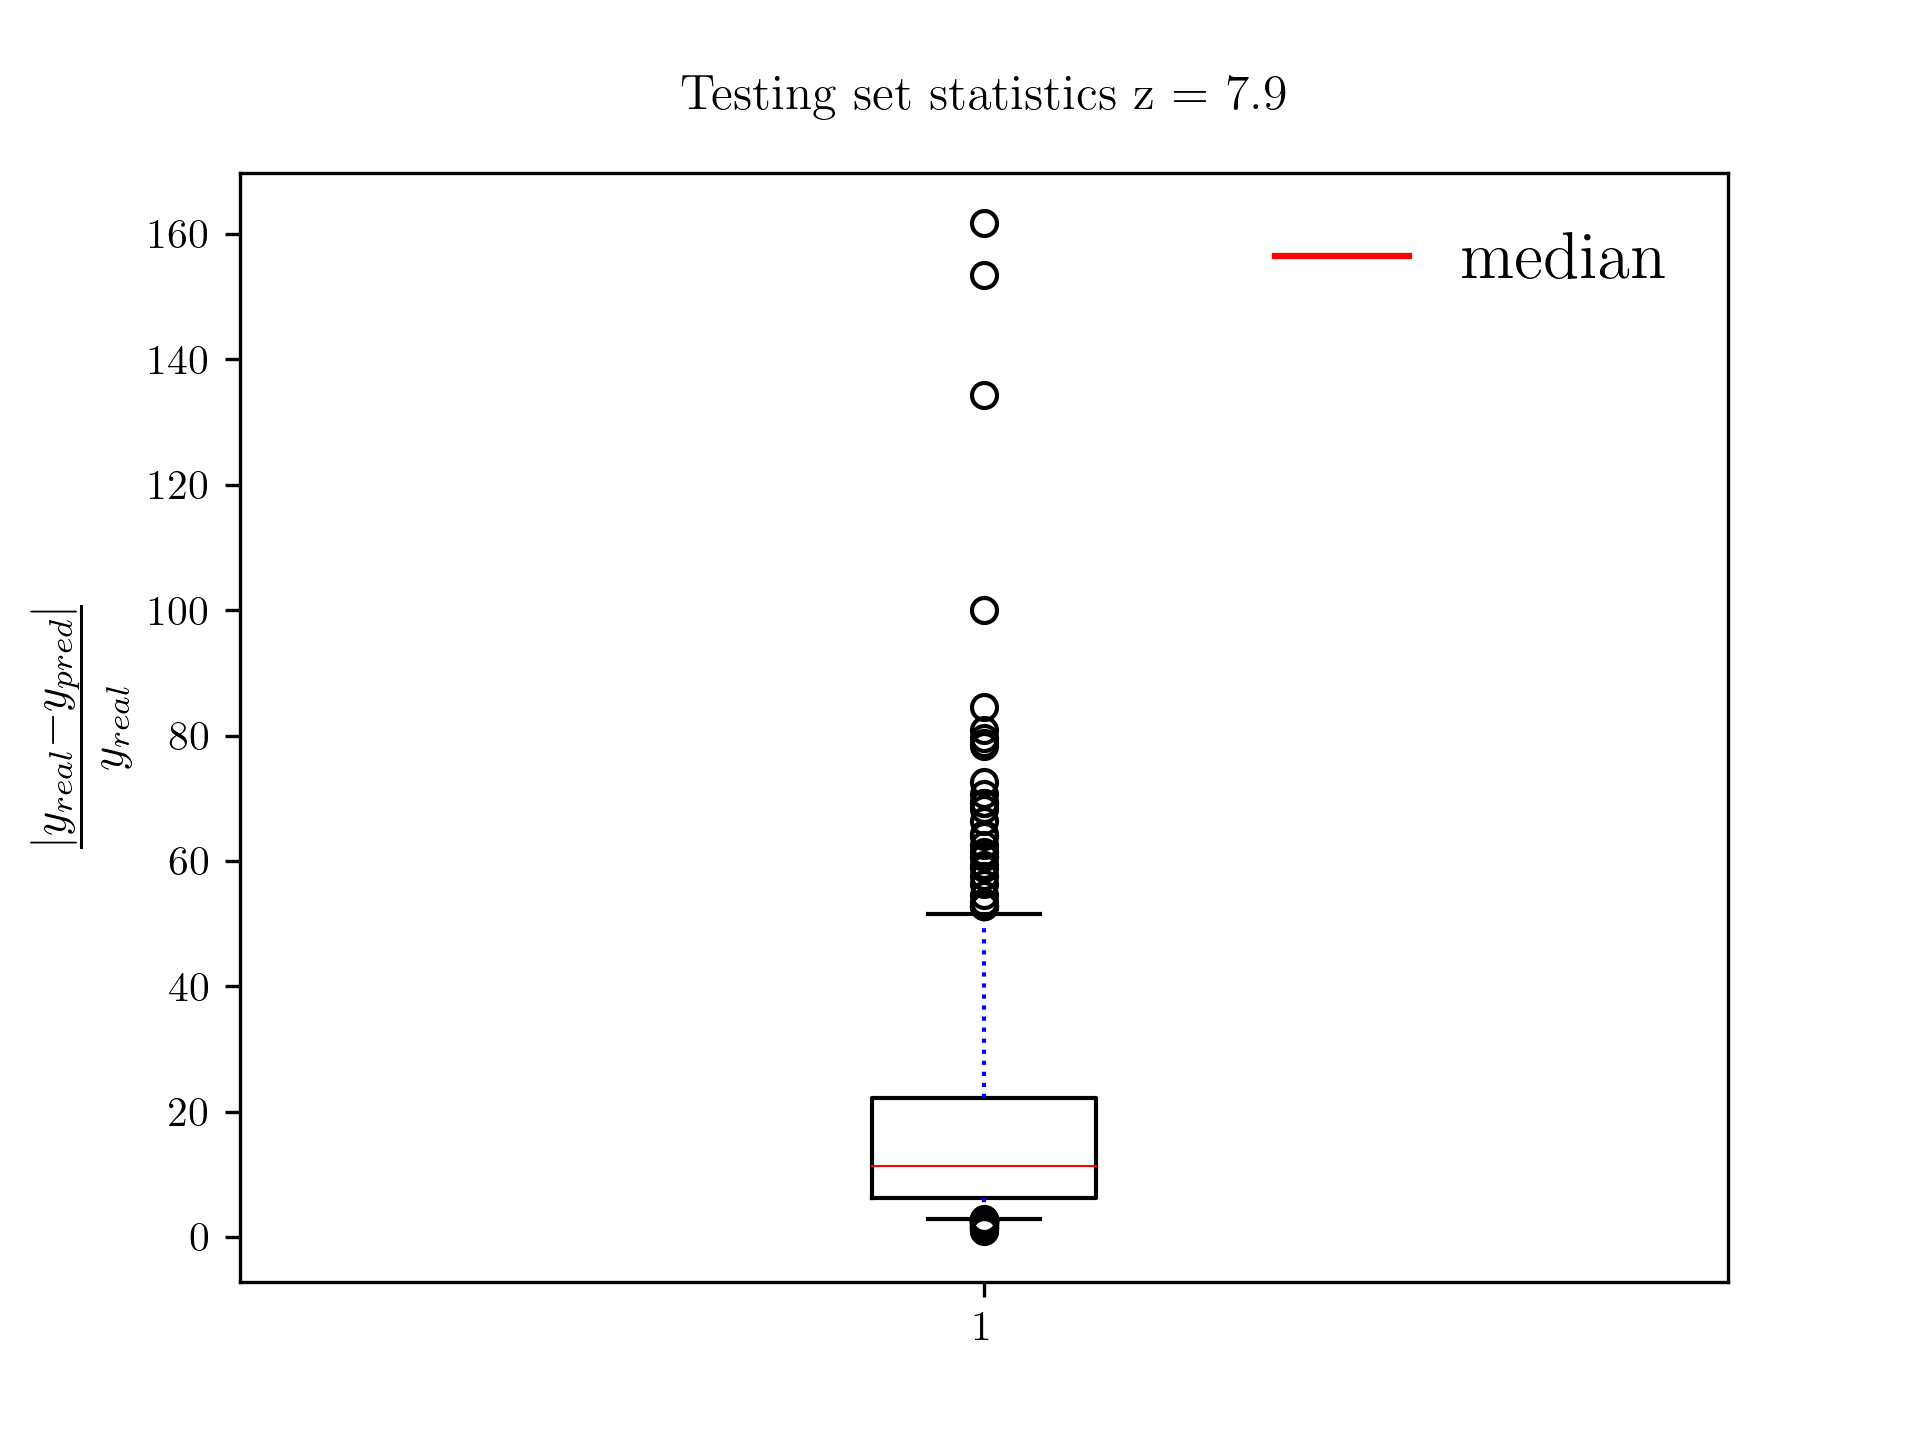
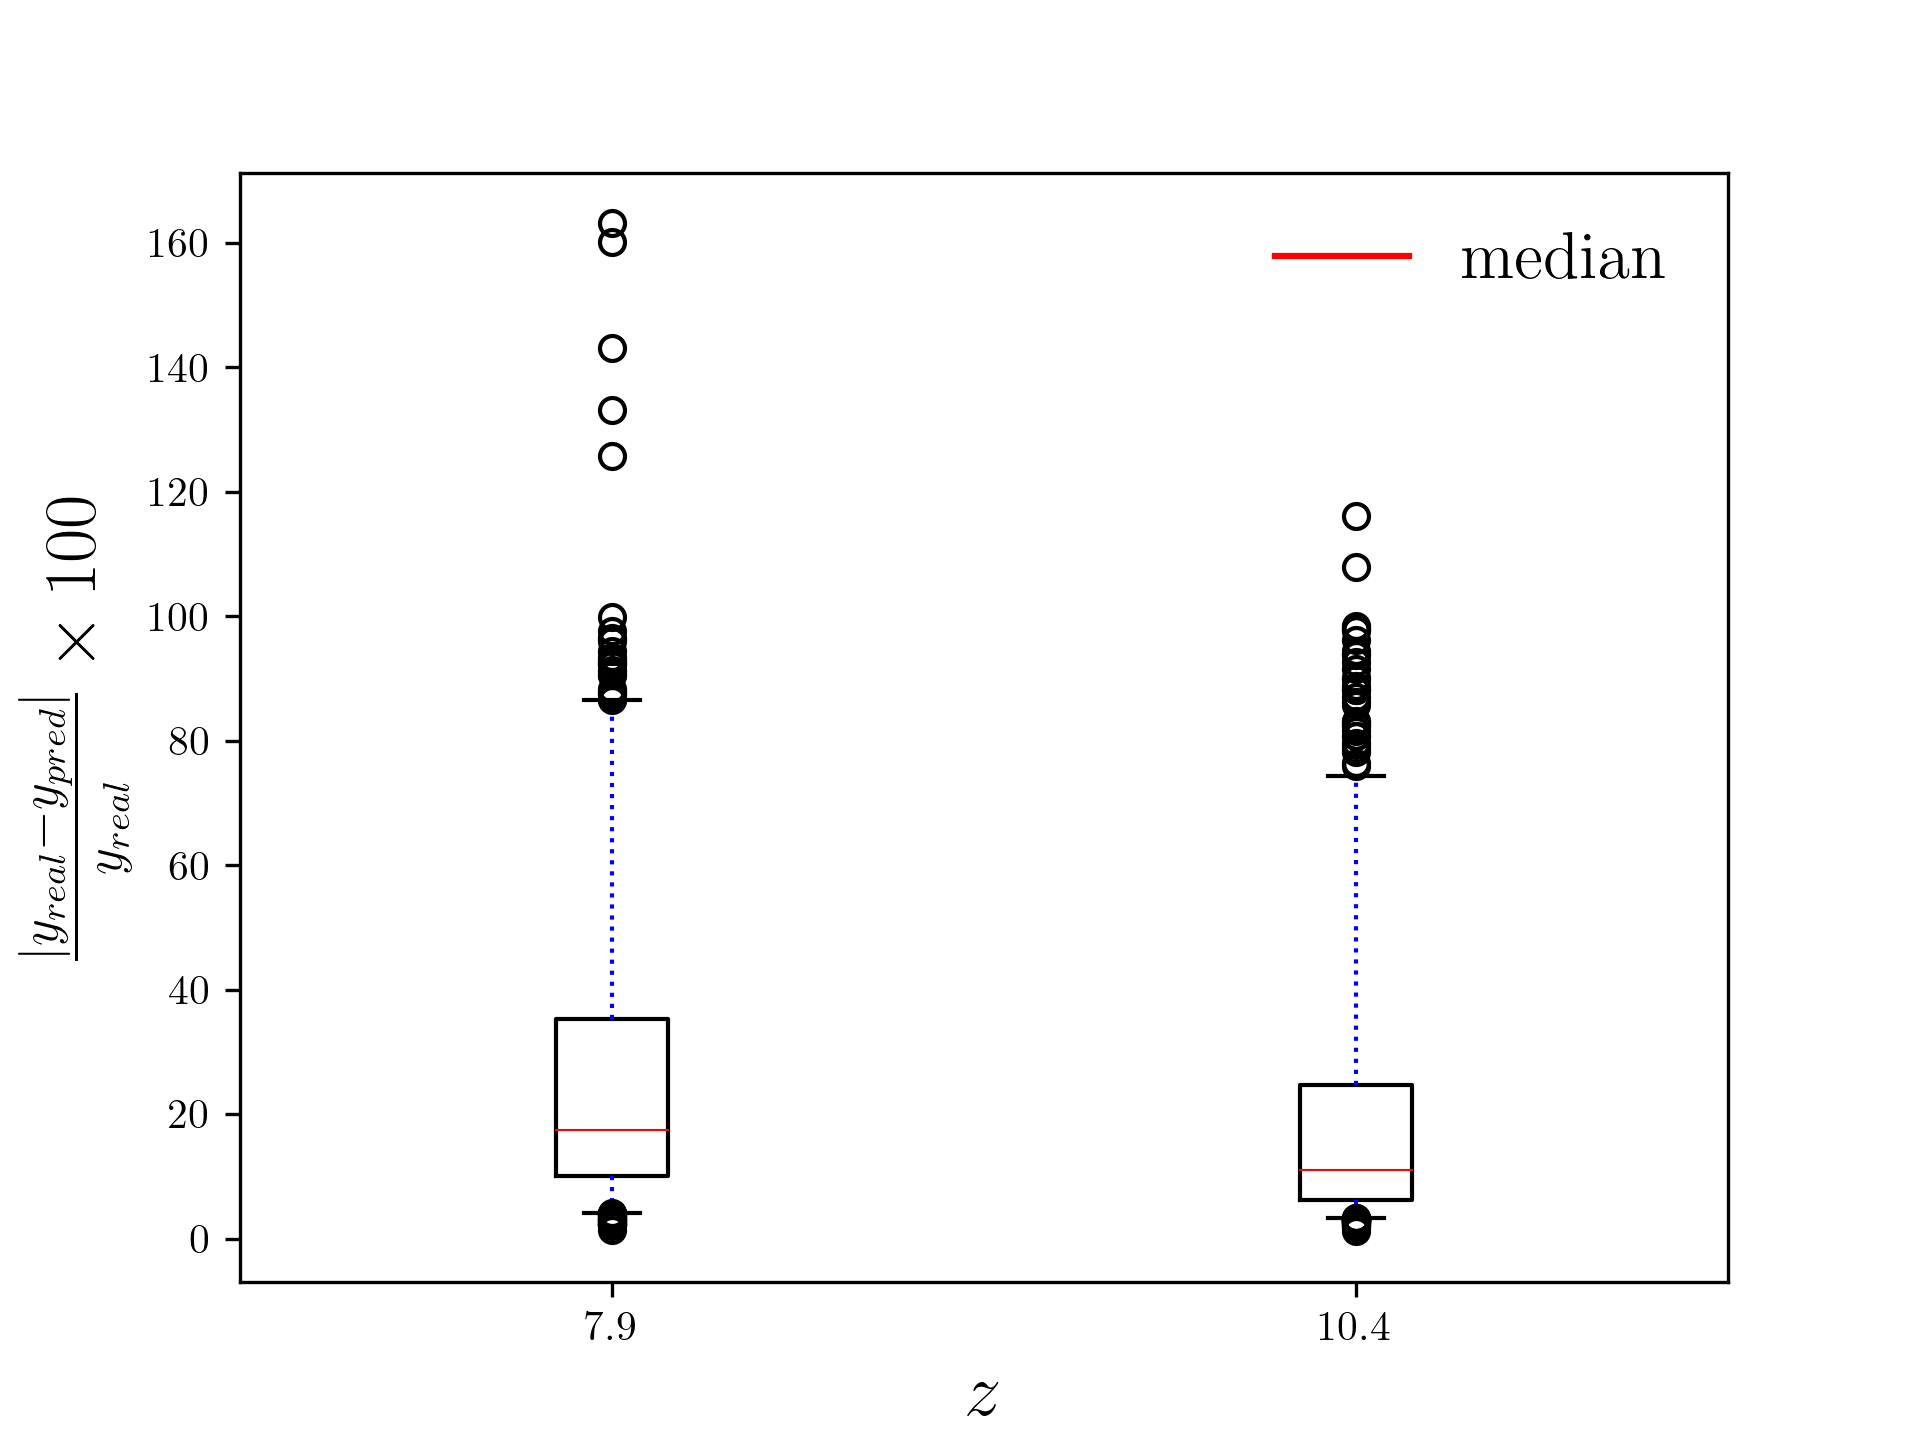
mini halos v1.2

diff --git a/ps_model_test.py b/ps_model_test.py
@@ -17,17 +17,22 @@ plt.rcParams['axes.titlepad'] = 15  # pad is in points...
 mpl.rcParams['figure.dpi'] = 300
 
 
-with open('/Users/hovavlazare/GITs/21CMPSemu/mini_halos/mini_halos_NN/model_files_7-9/training_files', 'rb') as f:
+with open('/Users/hovavlazare/GITs/21CMPSemu/experimental/model_files_7-9/training_files.pk', 'rb') as f:
     training_params, features, val_params, val_features, testing_params, testing_features, model_params, k_range = pickle.load(
         f)
 
+with open('/Users/hovavlazare/GITs/21CMPSemu/experimental/model_files_10-4/training_files.pk', 'rb') as f:
+    training_params1, features1, val_params1, val_features1, testing_params1, testing_features1, model_params1, k_range1 = pickle.load(
+        f)
+
 myEmulator = emulator(restore=True, use_log=False,
-                      files_dir='/Users/hovavlazare/GITs/21CMPSemu/mini_halos/mini_halos_NN/model_files_7-9',
-                      name='emulator_7-9_mini')
+                      files_dir='/Users/hovavlazare/GITs/21CMPSemu/experimental/model_files_7-9',
+                      name='emulator_7-9_full_range')
 
-print(myEmulator.NN.summary())
-
-
+myEmulator1 = emulator(restore=True, use_log=False,
+                      files_dir='/Users/hovavlazare/GITs/21CMPSemu/experimental/model_files_10-4',
+                      name='emulator_10-4_full_range')
+# print(myEmulator.NN.summary())
 # ind = testing_params['L_X'] > 38
 # filter_test_params = {}
 # for key in testing_params.keys():
@@ -39,17 +44,27 @@ filter_test_features = testing_features
 print(filter_test_features.shape[0])
 test_loss, pred = myEmulator.test_APE(filter_test_params, filter_test_features)
 
+filter_test_params1 = testing_params1
+filter_test_features1 = testing_features1
+print(filter_test_features1.shape[0])
+test_loss1, pred1 = myEmulator1.test_APE(filter_test_params1, filter_test_features1)
+
+
+
+
+
 red_line = mlines.Line2D([], [], color='red', label='median')
 
-plt.boxplot(test_loss, whis=(5, 95), whiskerprops={'ls': 'dotted', 'linewidth': 1, 'color': 'b'},
-              medianprops={'color': 'r', 'linewidth': 0.5}, showfliers=True)
-plt.title('Testing set statistics z = 7.9')
-plt.ylabel(r'$\frac{|y_{real} - y_{pred}|}{y_{real}}$', fontdict={'fontsize': 16})
+plt.boxplot([test_loss, test_loss1], whis=(5, 95), whiskerprops={'ls': 'dotted', 'linewidth': 1, 'color': 'b'},
+              medianprops={'color': 'r', 'linewidth': 0.5}, showfliers=True, labels=['7.9', '10.4'])
+plt.xlabel(r'$z$', fontdict={'fontsize':18})
+plt.ylabel(r'$\frac{|y_{real} - y_{pred}|}{y_{real}} \times 100$', fontdict={'fontsize': 18})
 plt.legend(handles=[red_line], loc='upper right', frameon=False, prop={"size": 16})
-#plt.savefig('/Users/hovavlazare/GITs/21CMPSemu/images/results_1')
+
+plt.savefig('/Users/hovavlazare/GITs/21CMPSemu/images/results_1')
 
 plt.show()
-
+x=2
 
 
 

diff --git a/MCMC_code/mcmc_no_Hera_091022.py b/MCMC_code/mcmc_no_Hera_091022.py
@@ -108,7 +108,7 @@ yerr104 = band1_err[ks].real
 
 mcmc_k_modes = kbins[ks] * h0
 # should be changes to 2
-smaller_2 = (mcmc_k_modes < 1)
+smaller_2 = (mcmc_k_modes < 2)
 # mcmc_k_modes[~smaller_2] = 0 # omit greater than 2
 
 y79[~smaller_2] = 0
@@ -139,7 +139,7 @@ XH_STD = 0.05
 # data points
 k_min = 0.03005976
 k_max = 1.73339733
-emulator_k_modes = 10 ** (np.linspace(np.log10(k_min), np.log10(k_max), num=100))[30:89]
+emulator_k_modes = 10 ** (np.linspace(np.log10(k_min), np.log10(k_max), num=100))[30:]
 # luminosity function real data
 with open('/gpfs0/elyk/users/hovavl/jobs/21cm_mcmc_job/UV_LU_data_reduced_new.json', 'r') as openfile:
     # Reading from json file
@@ -150,12 +150,11 @@ with open('/gpfs0/elyk/users/hovavl/jobs/21cm_mcmc_job/UV_LU_data_reduced_new.js
 nn_dir = '/gpfs0/elyk/users/hovavl/21CMPSemu'
 
 nn_ps = emulator(restore=True, use_log=False,
-                 files_dir=f'{nn_dir}/centered_model_files_7-9',
-                 name='emulator_7-9')
+                 files_dir=f'{nn_dir}/experimental/model_files_7-9',
+                 name='emulator_7-9_full_range')
 nn_ps104 = emulator(restore=True, use_log=False,
-                    files_dir=f'{nn_dir}/centered_model_files_10-4',
-                    name='emulator_10-4')
-
+                    files_dir=f'{nn_dir}/experimental/model_files_10-4',
+                    name='emulator_10-4_full_range')
 nn_tau = emulator(restore=True, use_log=False,
                   files_dir=f'{nn_dir}/tau_model_files',
                   name='tau_emulator')
@@ -163,10 +162,10 @@ nn_xH = emulator(restore=True, use_log=False,
                  files_dir=f'{nn_dir}/xH_model_files',
                  name='xH_emulator')
 myClassifier79 = SignalClassifier(restore=True,
-                                  files_dir=f'{nn_dir}/classifier_files_7-9',
+                                  files_dir=f'{nn_dir}/experimental/classifier_files_7-9',
                                   name='classify_NN_7-9')
 myClassifier104 = SignalClassifier(restore=True,
-                                   files_dir=f'{nn_dir}/classifier_files_10-4',
+                                   files_dir=f'{nn_dir}/experimental/classifier_files_10-4',
                                    name='classify_NN_10-4')
 
 

diff --git a/MCMC_code/mcmc_with_Hera_091022.py b/MCMC_code/mcmc_with_Hera_091022.py
@@ -107,7 +107,7 @@ yerr104 = band1_err[ks].real
 
 mcmc_k_modes = kbins[ks] * h0
 # should be changes to 2
-smaller_2 = (mcmc_k_modes < 1)
+smaller_2 = (mcmc_k_modes < 2)
 # mcmc_k_modes[~smaller_2] = 0 # omit greater than 2
 
 y79[~smaller_2] = 0
@@ -151,12 +151,11 @@ with open('/gpfs0/elyk/users/hovavl/jobs/21cm_mcmc_job/UV_LU_data_reduced_new.js
 nn_dir = '/gpfs0/elyk/users/hovavl/21CMPSemu'
 
 nn_ps = emulator(restore=True, use_log=False,
-                 files_dir=f'{nn_dir}/centered_model_files_7-9',
-                 name='emulator_7-9')
+                 files_dir=f'{nn_dir}/experimental/model_files_7-9',
+                 name='emulator_7-9_full_range')
 nn_ps104 = emulator(restore=True, use_log=False,
-                    files_dir=f'{nn_dir}/centered_model_files_10-4',
-                    name='emulator_10-4')
-
+                    files_dir=f'{nn_dir}/experimental/model_files_10-4',
+                    name='emulator_10-4_full_range')
 nn_tau = emulator(restore=True, use_log=False,
                   files_dir=f'{nn_dir}/tau_model_files',
                   name='tau_emulator')
@@ -164,15 +163,11 @@ nn_xH = emulator(restore=True, use_log=False,
                  files_dir=f'{nn_dir}/xH_model_files',
                  name='xH_emulator')
 myClassifier79 = SignalClassifier(restore=True,
-                                  files_dir=f'{nn_dir}/classifier_files_7-9',
+                                  files_dir=f'{nn_dir}/experimental/classifier_files_7-9',
                                   name='classify_NN_7-9')
 myClassifier104 = SignalClassifier(restore=True,
-                                   files_dir=f'{nn_dir}/classifier_files_10-4',
+                                   files_dir=f'{nn_dir}/experimental/classifier_files_10-4',
                                    name='classify_NN_10-4')
-
-
-
-
 
 
 def culcPS(theta):

diff --git a/train_and_test_ps_model.py b/train_and_test_ps_model.py
@@ -5,6 +5,8 @@ from NN_emulator import emulator
 import matplotlib.pyplot as plt
 from Classifier import SignalClassifier
 
+# try Zeus21
+
 data = pickle.load(
    open('/Users/hovavlazare/GITs/21CMPSemu training data/pd_training_data_mini/samples_29-04-23_z=10.4.pk', 'rb'))
 
